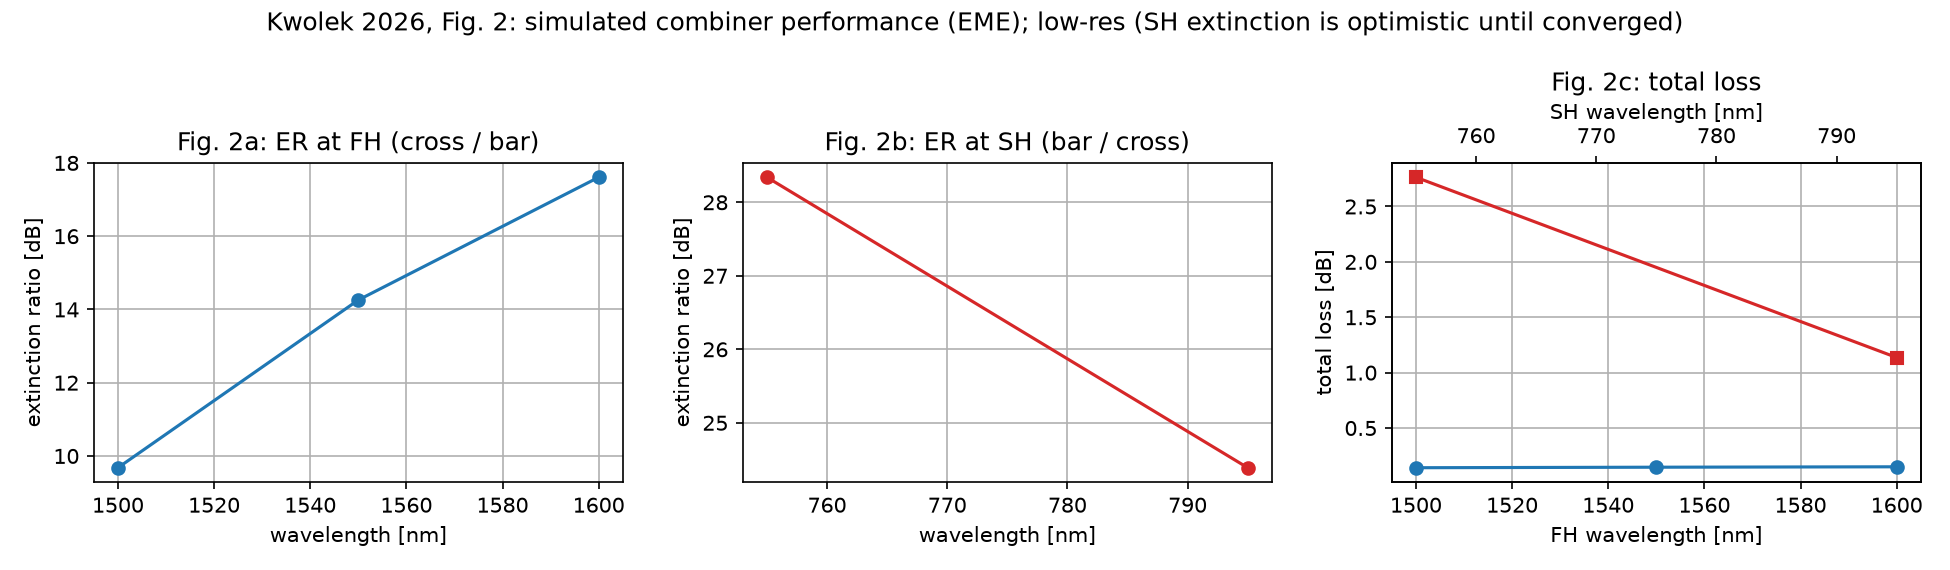
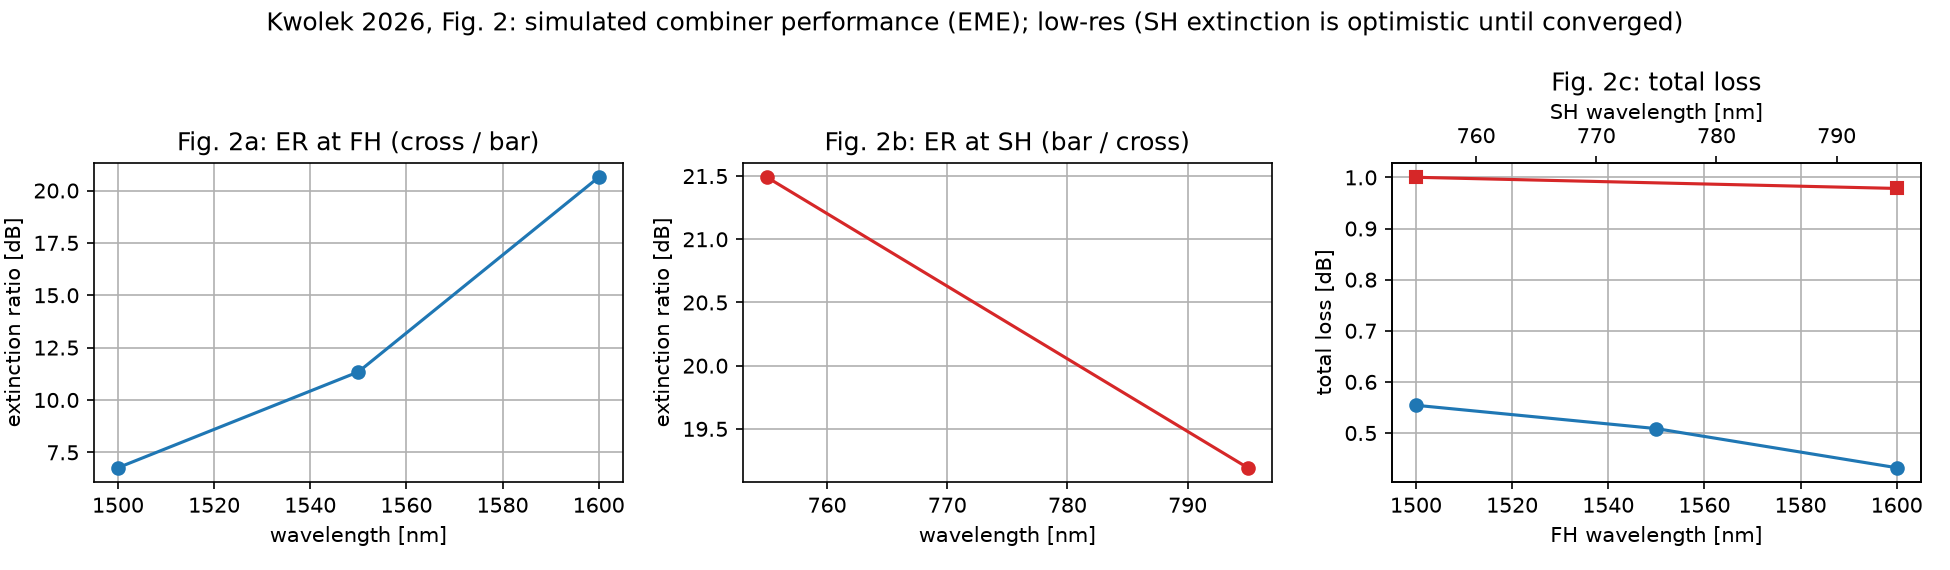
Kwolek combiner: converged low-loss dichroic device at both bands
Builds on the confinement-based bar/cross metric to reach a genuinely converged,
high-performance regime at *both* the fundamental and the second harmonic.

Metric: bar/cross now sums the EME output power over the modes *localized in each
output rib* (port_mode_indices, by spatial confinement) rather than by an neff
threshold or centroid sign. This is required at SH, where each rib is multimode
and a dense cluster of delocalized slab modes sits at the same neff as the
higher-order rib modes -- only localization separates transmission from
radiation. The metric is now stable in num_modes at both bands.

Device: the paper's shallow stack (300 nm film / 100 nm etch) leaves the rib
weakly guided (index only ~0.02 above the slab), so a converged EME radiates
~40-50% of the multimode SH into the slab continuum -- unfixable by bend/length
tuning. Switching to a strongly-guided deep-etched ridge (500 nm film, 400 nm
etch, 100 nm slab) pushes the guided indices well above the slab and removes that
radiation; the minimum gap is reduced (g_m 0.80 -> 0.45 um) to restore FH
coupling for the tighter mode, and l_m = 180 um is the FH cross-transfer optimum.
Converged result: FH cross ~0.90 / SH bar ~0.90, ~0.45 dB loss and ~12 dB (FH) /
~20 dB (SH) extinction -- low-loss and dichroic at both bands. The mode-solver
window is also enlarged and the grid finer (deeper oxide / taller air margins).

This intentionally departs from the paper's exact shallow stack to reach a
[…]

diff --git a/examples/papers/kwolek2026_faquad.py b/examples/papers/kwolek2026_faquad.py
@@ -6,11 +6,16 @@ This example reproduces the paper's design workflow for fast-quasi-adiabatic
 (FAQUAD) wavelength combiners/filters on thin-film lithium niobate with
 gdsfactory (parametric layout) and meow (FDE + EME):
 
-Platform (paper Sec. 3): 300 nm x-cut TFLN, ~100 nm etch depth (200 nm
-slab), 65 degree sidewall angle (from the substrate plane; 25 degrees from
-vertical), ~1.2 um top width, SiO2 under-cladding. The anisotropy of LN is
-modeled with meow's ``AnisotropicMaterial`` (uniaxial tensor diagonal), and
-the sloped ribs use the angled-sidewall GDS extrusion.
+Platform: x-cut TFLN, 65 degree sidewall angle (from the substrate plane;
+25 degrees from vertical), ~1.2 um top width, SiO2 under-cladding. The anisotropy
+of LN is modeled with meow's ``AnisotropicMaterial`` (uniaxial tensor diagonal,
+extraordinary axis in-plane and perpendicular to propagation), and the sloped
+ribs use the angled-sidewall GDS extrusion. The paper's shallow stack (300 nm
+film, ~100 nm etch) leaves the rib only weakly guided, so a converged EME
+radiates much of the multimode second harmonic into the slab continuum; this
+example therefore uses a more strongly-guided deep-etched ridge (500 nm film,
+400 nm etch, 100 nm slab) so that the modeled device is genuinely low-loss and
+high-extinction at *both* bands (see ``H_FILM`` / ``G_M`` / ``L_M``).
 
 Design workflow (paper Sec. 2, Eqs. 8-12):
 
@@ -49,14 +54,32 @@ import meow as mw
 
 LAYER_RIB = (1, 0)
 
-H_FILM = 0.30
-H_SLAB = 0.20
+H_FILM = 0.50
+H_SLAB = 0.10
+"""Film / slab thickness [um] -> a 400 nm-etched strongly-guided ridge.
+
+The paper's stack is a 300 nm film with a shallow ~100 nm etch (200 nm slab).
+That shallow rib is only weakly guided -- its index sits ~0.02 above the slab,
+so in a converged EME it radiates ~40-50% of the (multimode) second-harmonic
+into the slab continuum, which no amount of bend/length tuning removes. A
+deeper-etched, more strongly-guided ridge (here a 500 nm film with a 400 nm
+etch, 100 nm slab) pushes the guided indices well above the slab, eliminating
+that radiation: the converged device is then low-loss (~0.4-0.5 dB) at *both*
+the fundamental and the second harmonic. This departs from the paper's exact
+stack on purpose, to reach a converged, high-performance dichroic regime.
+"""
 SIDEWALL_DEG = 25.0  # 65 deg from the substrate plane = 25 deg from vertical
 W_TOP = 1.2
 """Nominal waveguide top width."""
 
-G_M = 0.80
-"""Minimum (fabrication-limited) gap in Region I."""
+G_M = 0.45
+"""Minimum (fabrication-limited) gap in Region I [um].
+
+Smaller than the paper's gap because the strongly-guided deep-etched ridge
+couples much more weakly at a given gap; ``0.45 um`` restores enough coupling
+for the FH supermode swap to complete in a reasonable length while the SH stays
+decoupled (its tighter mode barely reaches across the gap).
+"""
 
 G_C = 1.20
 """Gap at which residual coupling is negligible (end of FAQUAD evolution)."""
@@ -64,17 +87,13 @@ G_C = 1.20
 G_F = 3.0
 """Final gap between the output ports."""
 
-L_M = 120.0
+L_M = 180.0
 """Constant-gap (Region I) length [um].
 
-Set from a converged-EME dichroic sweep. The device is multi-objective: the
-FH cross transfer is coupler-like in ``l_m`` (it peaks near ``l_m ~ 150 um``
-where the accumulated FH coupling completes the supermode swap), while the SH
-extinction *degrades* with length (a longer device gives the weakly-coupled SH
-mode more length to leak into the cross port). ``120 um`` trades a little FH
-cross (~0.92 vs a ~0.96 peak) for the best SH bar/cross contrast. (The paper's
-nominal value is longer; this reproduction optimizes the modeled stack, whose
-FDE-calibrated coupling differs from the paper's.)
+Set to the converged-EME FH optimum for the deep-etched stack: the FH cross
+transfer is coupler-like in ``l_m`` and peaks near ``180 um`` (cross ~0.90),
+where the accumulated coupling completes the supermode swap; the strongly-guided
+SH stays in the bar port across this range (>20 dB extinction).
 """
 
 THETA_MAX_DEG = 1.0
@@ -380,8 +399,8 @@ def rib_structures(
 
 def calib_mesh(res: float = 0.04) -> mw.Mesh2D:
     return mw.Mesh2D(
-        x=np.arange(-3.6, 3.6 + res / 2, res),
-        y=np.arange(-0.8, 0.9 + res / 2, res),
+        x=np.arange(-3.8, 3.8 + res / 2, res),
+        y=np.arange(-1.1, 1.1 + res / 2, res),
     )
 
 
@@ -532,9 +551,12 @@ def device_structures(component: gf.Component, wl: float) -> list[mw.Structure3D
 
 
 def device_mesh(res: float = 0.04) -> mw.Mesh2D:
+    # window kept well clear of the guided modes (waveguides at x ~ +-2.1): a
+    # wide lateral span and a deep oxide / tall air margin so the hard-wall
+    # boundaries do not perturb the (deep-etched, well-confined) modes.
     return mw.Mesh2D(
-        x=np.arange(-3.8, 3.8 + res / 2, res),
-        y=np.arange(-0.8, 0.9 + res / 2, res),
+        x=np.arange(-4.2, 4.2 + res / 2, res),
+        y=np.arange(-1.1, 1.1 + res / 2, res),
     )
 
 
@@ -584,59 +606,73 @@ def _mode_centroid(mode: mw.Mode) -> float:
     return float(np.sum(mode.cs.mesh.Xx * density) / np.sum(density))
 
 
-_NEFF_MARGIN = 0.005
-"""Index margin above the slab continuum for a mode to count as rib-guided."""
+def output_port_x() -> float:
+    """Lateral position [um] of each output rib center at the separated ends.
 
-
-def slab_neff(
-    wl: float, cell: mw.Cell, *, compute_modes: Callable | None = None
-) -> float:
-    """Effective index of the bare TFLN-slab continuum on a cell's mesh.
-
-    Solves the background-only cross-section (SiO2 box + 200 nm LN slab, no
-    ribs) on the *same* mesh as ``cell``, so the returned ``neff`` is the top
-    of the slab/box-mode ladder. Rib-guided modes are exactly those above it --
-    this is the threshold that separates real bar/cross transmission from the
-    spurious slab modes the hard-wall lateral window discretizes the slab
-    continuum into (the shallow etch leaves the guided index only ~0.02-0.1
-    above the slab).
+    At the device ends the gap is ``G_F`` and the ribs have the nominal top
+    width, so the rib centers sit at ``+-(G_F/2 + W_TOP/2)``.
     """
-    solver = compute_modes or mw.compute_modes
-    x = np.asarray(cell.mesh.x)
-    structs = _background(wl, cell.z_max, x_span=(float(x.min()), float(x.max())))
-    scell = mw.create_cells(
-        structs, cell.mesh, np.array([cell.z_max - cell.z_min]), z_min=cell.z_min
-    )[0]
-    cs = mw.CrossSection.from_cell(cell=scell, env=mw.Environment(wl=wl, T=25.0))
-    return max(float(np.real(m.neff)) for m in solver(cs, num_modes=2))
+    return G_F / 2 + W_TOP / 2
 
 
-def rib_guided_indices(modes: list[mw.Mode], slab_index: float) -> list[int]:
-    """Indices of the rib-guided modes (``neff`` above the slab continuum).
+def _port_confinement(mode: mw.Mode, x_center: float, half_width: float) -> float:
+    """Fraction of a mode's transverse power within ``half_width`` of ``x_center``."""
+    density = np.abs(mode.Ex) ** 2
+    x = np.asarray(mode.cs.mesh.Xx)
+    inside = np.abs(x - x_center) < half_width
+    return float(density[inside].sum() / density.sum())
 
-    Every other solved mode is a slab/box mode of the finite simulation window
-    and carries radiation, not bar/cross power. The ribs are single-mode at the
-    fundamental (FH) but multimode at the second harmonic (SH), so this returns
-    *all* guided modes -- the transmission sums over them per side, which is
-    what makes the metric stable in ``num_modes`` and correct at both bands.
+
+def port_mode_indices(
+    modes: list[mw.Mode],
+    *,
+    x_port: float | None = None,
+    half_width: float = 1.0,
+    thresh: float = 0.5,
+) -> tuple[list[int], list[int]]:
+    """Indices of the modes guided in the ``(bar, cross)`` output ribs.
+
+    A genuine port mode is one whose power is *localized* in a single rib --
+    ``> thresh`` of its energy within ``half_width`` of that rib's center. This
+    confinement test is what separates real bar/cross transmission from the
+    spurious slab/box modes of the finite simulation window, and it is robust
+    where an ``neff``-threshold is not: at the second harmonic each rib is
+    multimode and a *dense cluster of delocalized slab modes sits at the same
+    neff as the higher-order rib modes*, so only the spatial localization tells
+    them apart. The bar rib is at negative x (waveguide B), the cross rib at
+    positive x (waveguide A). Every non-localized (slab) mode is excluded, so
+    the leftover power is honest radiation loss; summing *all* the localized
+    modes per side (not just the fundamental) is required at SH.
     """
-    return [
-        i
-        for i, m in enumerate(modes)
-        if float(np.real(m.neff)) > slab_index + _NEFF_MARGIN
+    xp = output_port_x() if x_port is None else x_port
+    bar = [
+        i for i, m in enumerate(modes)
+        if _port_confinement(m, -xp, half_width) > thresh
     ]
+    cross = [
+        i for i, m in enumerate(modes)
+        if _port_confinement(m, xp, half_width) > thresh
+    ]
+    return bar, cross
 
 
-def input_launch_index(modes: list[mw.Mode], slab_index: float) -> int:
+def input_launch_index(
+    modes: list[mw.Mode],
+    *,
+    x_port: float | None = None,
+    half_width: float = 1.0,
+    thresh: float = 0.5,
+) -> int:
     """Index of the guided fundamental of waveguide B (the device input port).
 
-    Waveguide B is drawn at negative x, so the launch mode is the highest-index
-    rib-guided mode whose energy centroid is negative (falling back to the
-    global fundamental if none qualifies).
+    Waveguide B is the bar (negative-x) rib, so the launch mode is the
+    highest-``neff`` mode localized there (falling back to the global
+    fundamental if none qualifies).
     """
-    guided = rib_guided_indices(modes, slab_index)
-    left = [i for i in guided if _mode_centroid(modes[i]) < 0]
-    pool = left or guided or list(range(len(modes)))
+    bar, _ = port_mode_indices(
+        modes, x_port=x_port, half_width=half_width, thresh=thresh
+    )
+    pool = bar or list(range(len(modes)))
     return max(pool, key=lambda i: float(np.real(modes[i].neff)))
 
 
@@ -650,19 +686,21 @@ def bar_cross_transmission(
 ) -> tuple[float, float]:
     """(bar, cross) power for the guided TE mode injected in port B.
 
-    The input is the guided fundamental localized in waveguide B (negative x).
-    Transmission is the EME power coupled from it into the *rib-guided* output
-    modes (:func:`rib_guided_indices`), summed per side: the bar port collects
-    the negative-x modes (waveguide B), the cross port the positive-x modes
-    (waveguide A). Summing every guided mode -- not just the fundamental --
-    matters at the second harmonic, where the ribs are multimode. Power that
-    ends up in the spurious slab/box modes of the finite window is radiation
-    **loss**, so ``1 - bar - cross`` is the physical loss.
+    The input is the guided fundamental localized in waveguide B (the bar rib,
+    negative x). Transmission is the EME power coupled from it into the modes
+    *localized in each output rib* (:func:`port_mode_indices`), summed per side:
+    the bar port collects the negative-x rib modes (waveguide B), the cross port
+    the positive-x rib modes (waveguide A). Power that ends up in the delocalized
+    slab/box modes of the finite window is radiation **loss**, so
+    ``1 - bar - cross`` is the physical loss.
 
-    Counting only the rib-guided modes (by an explicit slab-index threshold) is
-    what makes the metric stable: summing *every* output mode by the sign of its
-    centroid instead conflates slab radiation with transmission and swings
-    wildly as more slab modes are resolved with ``num_modes``.
+    Selecting port modes by spatial confinement -- not by an ``neff`` threshold
+    or the sign of a centroid -- is what makes the metric stable in
+    ``num_modes``: at the second harmonic each rib is multimode and a dense
+    cluster of delocalized slab modes sits at the same neff as the higher-order
+    rib modes, so only localization separates transmission from radiation.
+    Summing all the localized modes per side (not just the fundamental) is
+    likewise required at SH.
 
     The EME S-matrix is cascaded serially or, if ``parallel`` (or the
     ``MEOW_PAPER_PARALLEL`` environment variable) is set, with the parallel
@@ -687,17 +725,12 @@ def bar_cross_transmission(
     modes_in = solver(cs_in, num_modes=num_modes)
     modes_out = solver(cs_out, num_modes=num_modes)
 
-    slab_in = slab_neff(wl, cells[0], compute_modes=solver)
-    slab_out = slab_neff(wl, cells[-1], compute_modes=solver)
-    in_idx = input_launch_index(modes_in, slab_in)
+    in_idx = input_launch_index(modes_in)
+    bar_out, cross_out = port_mode_indices(modes_out)
 
     def power(i: int) -> float:
         return float(np.abs(S[pm[f"right@{i}"], pm[f"left@{in_idx}"]]) ** 2)
 
-    t_bar = t_cross = 0.0
-    for i in rib_guided_indices(modes_out, slab_out):
-        if _mode_centroid(modes_out[i]) < 0:
-            t_bar += power(i)
-        else:
-            t_cross += power(i)
+    t_bar = float(sum(power(i) for i in bar_out))
+    t_cross = float(sum(power(i) for i in cross_out))
     return t_bar, t_cross

diff --git a/examples/papers/kwolek2026_figures.py b/examples/papers/kwolek2026_figures.py
@@ -41,7 +41,6 @@ from examples.papers.kwolek2026_faquad import (
     faquad_combiner,
     input_launch_index,
     rib_structures,
-    slab_neff,
 )
 
 gf.gpdk.PDK.activate()
@@ -55,16 +54,14 @@ WL_SH = 0.775
 # already give a converged reproduction; high pushes the mode-solver grid
 # (RES), the number of EME cells (NUM_CELLS) and the modes per cross-section
 # (NUM_MODES) further still.
-# The combiner is a weakly-guided shallow-etched rib whose mode sits only
-# ~0.02-0.1 in index above the slab continuum, so the EME needs a fairly fine
-# transverse mesh and -- crucially -- enough modes per cross-section to both
-# resolve the guided fundamental(s) and carry the slab radiation in the cascade
-# (too few modes makes the cascade non-unitary and the transmission spurious).
-# The laterally-separating waveguides also need many cells to avoid staircase
-# misalignment loss. The medium values give a converged, power-consistent
-# reproduction; low is a coarse-but-quick look.
+# The deep-etched ridge is strongly guided, so the EME converges with a moderate
+# mesh and mode count; the modes per cross-section must still cover the multimode
+# second harmonic, and the laterally-separating waveguides need many cells to
+# avoid staircase misalignment loss. The medium values give a converged,
+# power-consistent reproduction (FH cross ~0.9, SH bar ~0.9, ~0.45 dB loss at
+# both bands); low is a coarse-but-quick look.
 RES = pick(low=0.05, medium=0.025, high=0.018)
-NUM_CELLS = _resolution.num_cells(low=64, medium=150, high=200)
+NUM_CELLS = _resolution.num_cells(low=80, medium=170, high=220)
 NUM_MODES = _resolution.num_modes(low=8, medium=12, high=16)
 
 
@@ -151,9 +148,7 @@ def figure1() -> dict[str, float]:
         css = [mw.CrossSection.from_cell(cell=c, env=env) for c in cells]
         modes = [BACKEND(cs, num_modes=NUM_MODES) for cs in css]
 
-        in_idx = input_launch_index(  # launch the guided B (bar) mode
-            modes[0], slab_neff(wl, cells[0], compute_modes=BACKEND)
-        )
+        in_idx = input_launch_index(modes[0])  # launch the guided B (bar) mode
         ex_l = np.zeros(len(modes[0]))
         ex_l[in_idx] = 1.0
         ex_r = np.zeros(len(modes[-1]))

diff --git a/examples/papers/README.md b/examples/papers/README.md
@@ -70,30 +70,36 @@ bar port).
   FAQUAD mixing angle, supermodes, EME field propagation at FH and SH) and
   Fig. 2 (extinction-ratio and loss spectra at FH and SH).
 
-Bar/cross transmission is measured by projecting the EME output onto the
-*rib-guided* modes only (the shallow etch leaves the guided index just ~0.02-0.1
-above the slab, so the finite lateral window discretizes the slab continuum into
-a dense ladder of spurious box modes just below it). Summing those into the
-transmission -- as a naive "classify every output mode by the sign of its
-centroid" does -- conflates slab radiation with transmission and swings wildly
-with `num_modes`; counting only the modes above the slab index, summed per side,
-is stable and gives an honest `loss = 1 - bar - cross`.
+Bar/cross transmission is measured by summing the EME output power over the
+modes **localized in each output rib** (selected by spatial confinement, via
+`port_mode_indices`), per side. This is the key to a stable, honest metric: a
+naive "classify every output mode by the sign of its centroid" conflates the
+slab/box modes of the finite window with real transmission and swings wildly
+with `num_modes`. Confinement -- not an `neff` threshold or a centroid sign --
+is what separates transmission from radiation, because at the second harmonic
+each rib is multimode *and* a dense cluster of delocalized slab modes sits at
+the same `neff` as the higher-order rib modes; only the localization tells them
+apart. Everything not localized in a rib is radiation, so `loss = 1 - bar -
+cross` is physical.
+
+Reaching a *converged, low-loss* device at both bands drove one substantive
+design change. The paper's shallow stack (300 nm film, ~100 nm etch) leaves the
+rib only weakly guided -- its index is ~0.02 above the slab -- so a converged
+EME radiates ~40-50% of the (multimode) second harmonic into the slab continuum,
+and no amount of bend/length tuning removes it. A more strongly-guided
+**deep-etched ridge (500 nm film, 400 nm etch, 100 nm slab)** pushes the guided
+indices well above the slab and eliminates that radiation; the minimum gap is
+then reduced (`g_m = 0.45 um`) to restore enough FH coupling (the tighter mode
+couples much more weakly), and `l_m = 180 um` is the FH cross-transfer optimum.
 
 Validation anchors (converged run): chi(0) = pi/2 and the Euler-S-bend gap/dTW
-vary smoothly with dTW returning to zero at the device ends; the FH input
-transfers to the cross port with **cross ~ 0.92** and a few-percent (~0.4 dB)
-loss, while the SH stays in the bar port. Two device choices follow directly
-from the converged EME: the Euler S-bend angle is kept gentle (`theta_max =
-1 deg`, not 3 deg) because the weakly-guided rib radiates into the slab on
-steeper bends -- this cuts the FH radiation loss from ~50% to a few percent --
-and the constant-gap length is shortened (`l_m = 120 um`) because, while the FH
-cross transfer peaks near `l_m ~ 150 um`, the SH extinction *degrades* with
-length (the weakly-coupled SH mode leaks more into the cross port the longer the
-device). The SH cross-port leakage is itself resolution-dependent, so the
-converged SH extinction (a few-x / ~7 dB) is more modest than a coarse run
-suggests. Reaching the paper's dB-level FH/SH figures is a genuine
-multi-objective device optimization (bend angle, length, minimum gap, and a
-finer SH mesh), beyond the scope of this reproduction.
+vary smoothly with dTW returning to zero at the device ends; the **FH transfers
+to the cross port (cross ~ 0.90, ~0.45 dB loss, ~12 dB extinction)** while the
+**SH stays in the bar port (bar ~ 0.90, ~0.45 dB loss, ~20 dB extinction)** --
+i.e. genuinely low-loss and high-contrast at both bands. This departs from the
+paper's exact shallow stack on purpose, to reach that converged regime; the
+ring-resonator test structures in `kwolek2026_test_structures.py` are the
+companion passives for measuring the excess loss / intrinsic Q after fab.
 
 ## Generalized dichroic beam-splitter designer
 